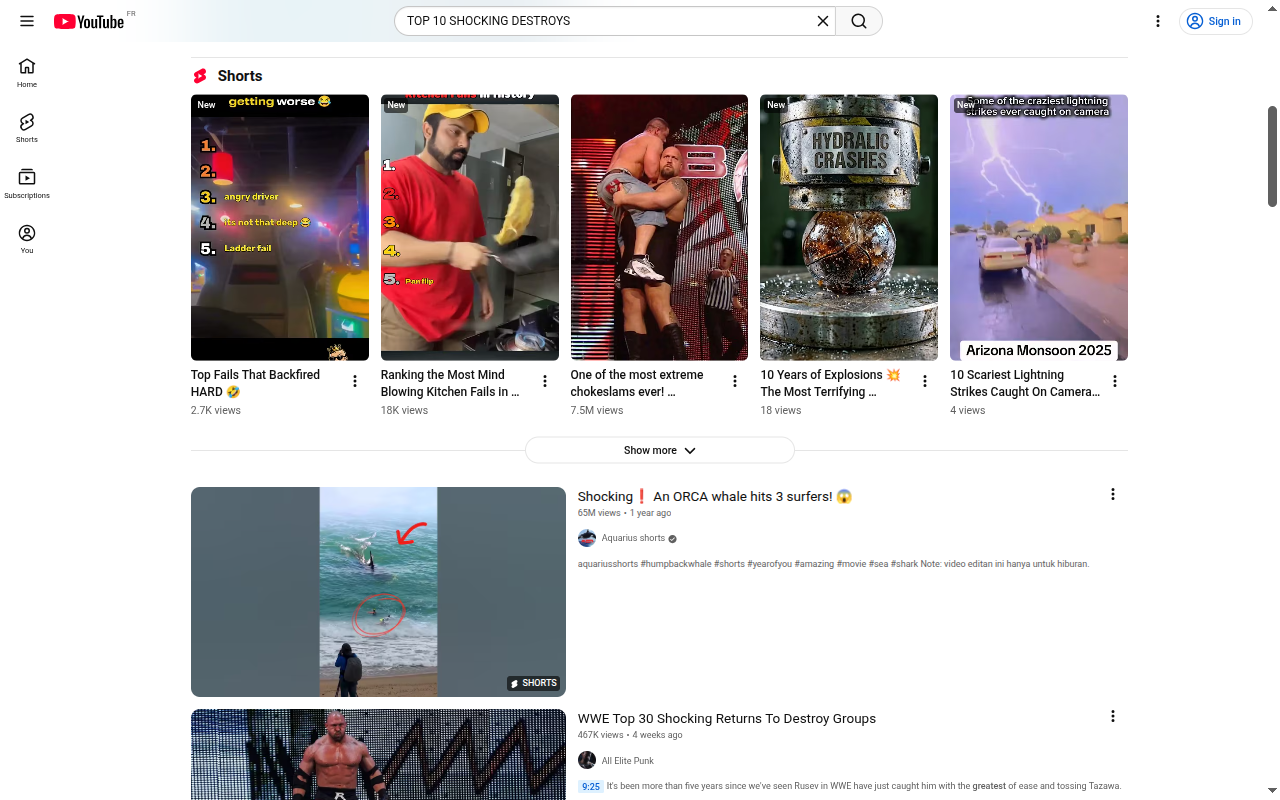
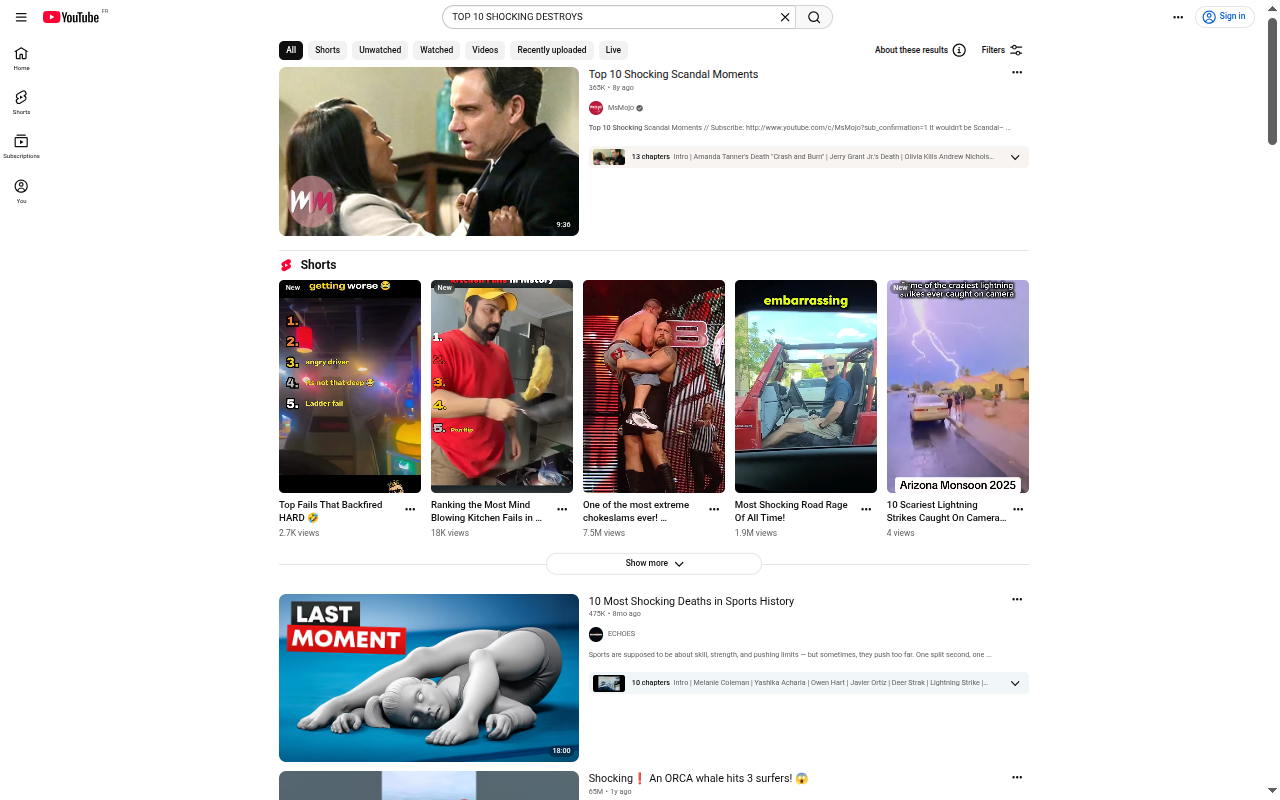
docs(readme,detection): more aggressive zoom + extra shock keywords
The before screenshot was too tame at 0.75 zoom — only a couple of
clickbait cards visible, no Shorts shelf, no real wall-of-noise feel.

- Page zoom dropped to 0.6 in scripts/generate_screenshots.mjs:
  4 cards per row, the full Shorts shelf, plus 2-3 main grid rows
  all visible in one 1280x800 frame. Now the before shot is the
  loud YouTube experience users actually have.
- Removed the post-load scrollBy so the visceral Shorts shelf at
  the top of the page is part of the capture.
- Added missing shock-adjective keywords to clickbait_title:
  EN: disturbing, terrifying, horrifying, creepy, freaky, scariest,
      deadliest, chilling, brutal, savage
  FR: terrifiant(e), horrifiant(e), effrayant(e), glaçant(e)
  These appeared in the actual after-shot ("Top 10 Disturbing
  Signs CERN…") and previously slipped through.

124 unit tests still passing.

diff --git a/src/detection/rules/clickbait_title.ts b/src/detection/rules/clickbait_title.ts
@@ -17,6 +17,18 @@ const CLICKBAIT_KEYWORDS_EN = [
   'unbelievable',
   'epic fail',
   'epic win',
+  // shock adjectives observed in real YouTube clickbait that the
+  // baseline list missed
+  'disturbing',
+  'terrifying',
+  'horrifying',
+  'creepy',
+  'freaky',
+  'scariest',
+  'deadliest',
+  'chilling',
+  'brutal',
+  'savage',
 ];
 
 const CLICKBAIT_KEYWORDS_FR = [
@@ -37,6 +49,14 @@ const CLICKBAIT_KEYWORDS_FR = [
   'pète les plombs',
   'choque tout le monde',
   'dérapage',
+  'terrifiant',
+  'terrifiante',
+  'horrifiant',
+  'horrifiante',
+  'effrayant',
+  'effrayante',
+  'glaçant',
+  'glaçante',
 ];
 
 const CLICKBAIT_KEYWORDS = [...CLICKBAIT_KEYWORDS_EN, ...CLICKBAIT_KEYWORDS_FR];